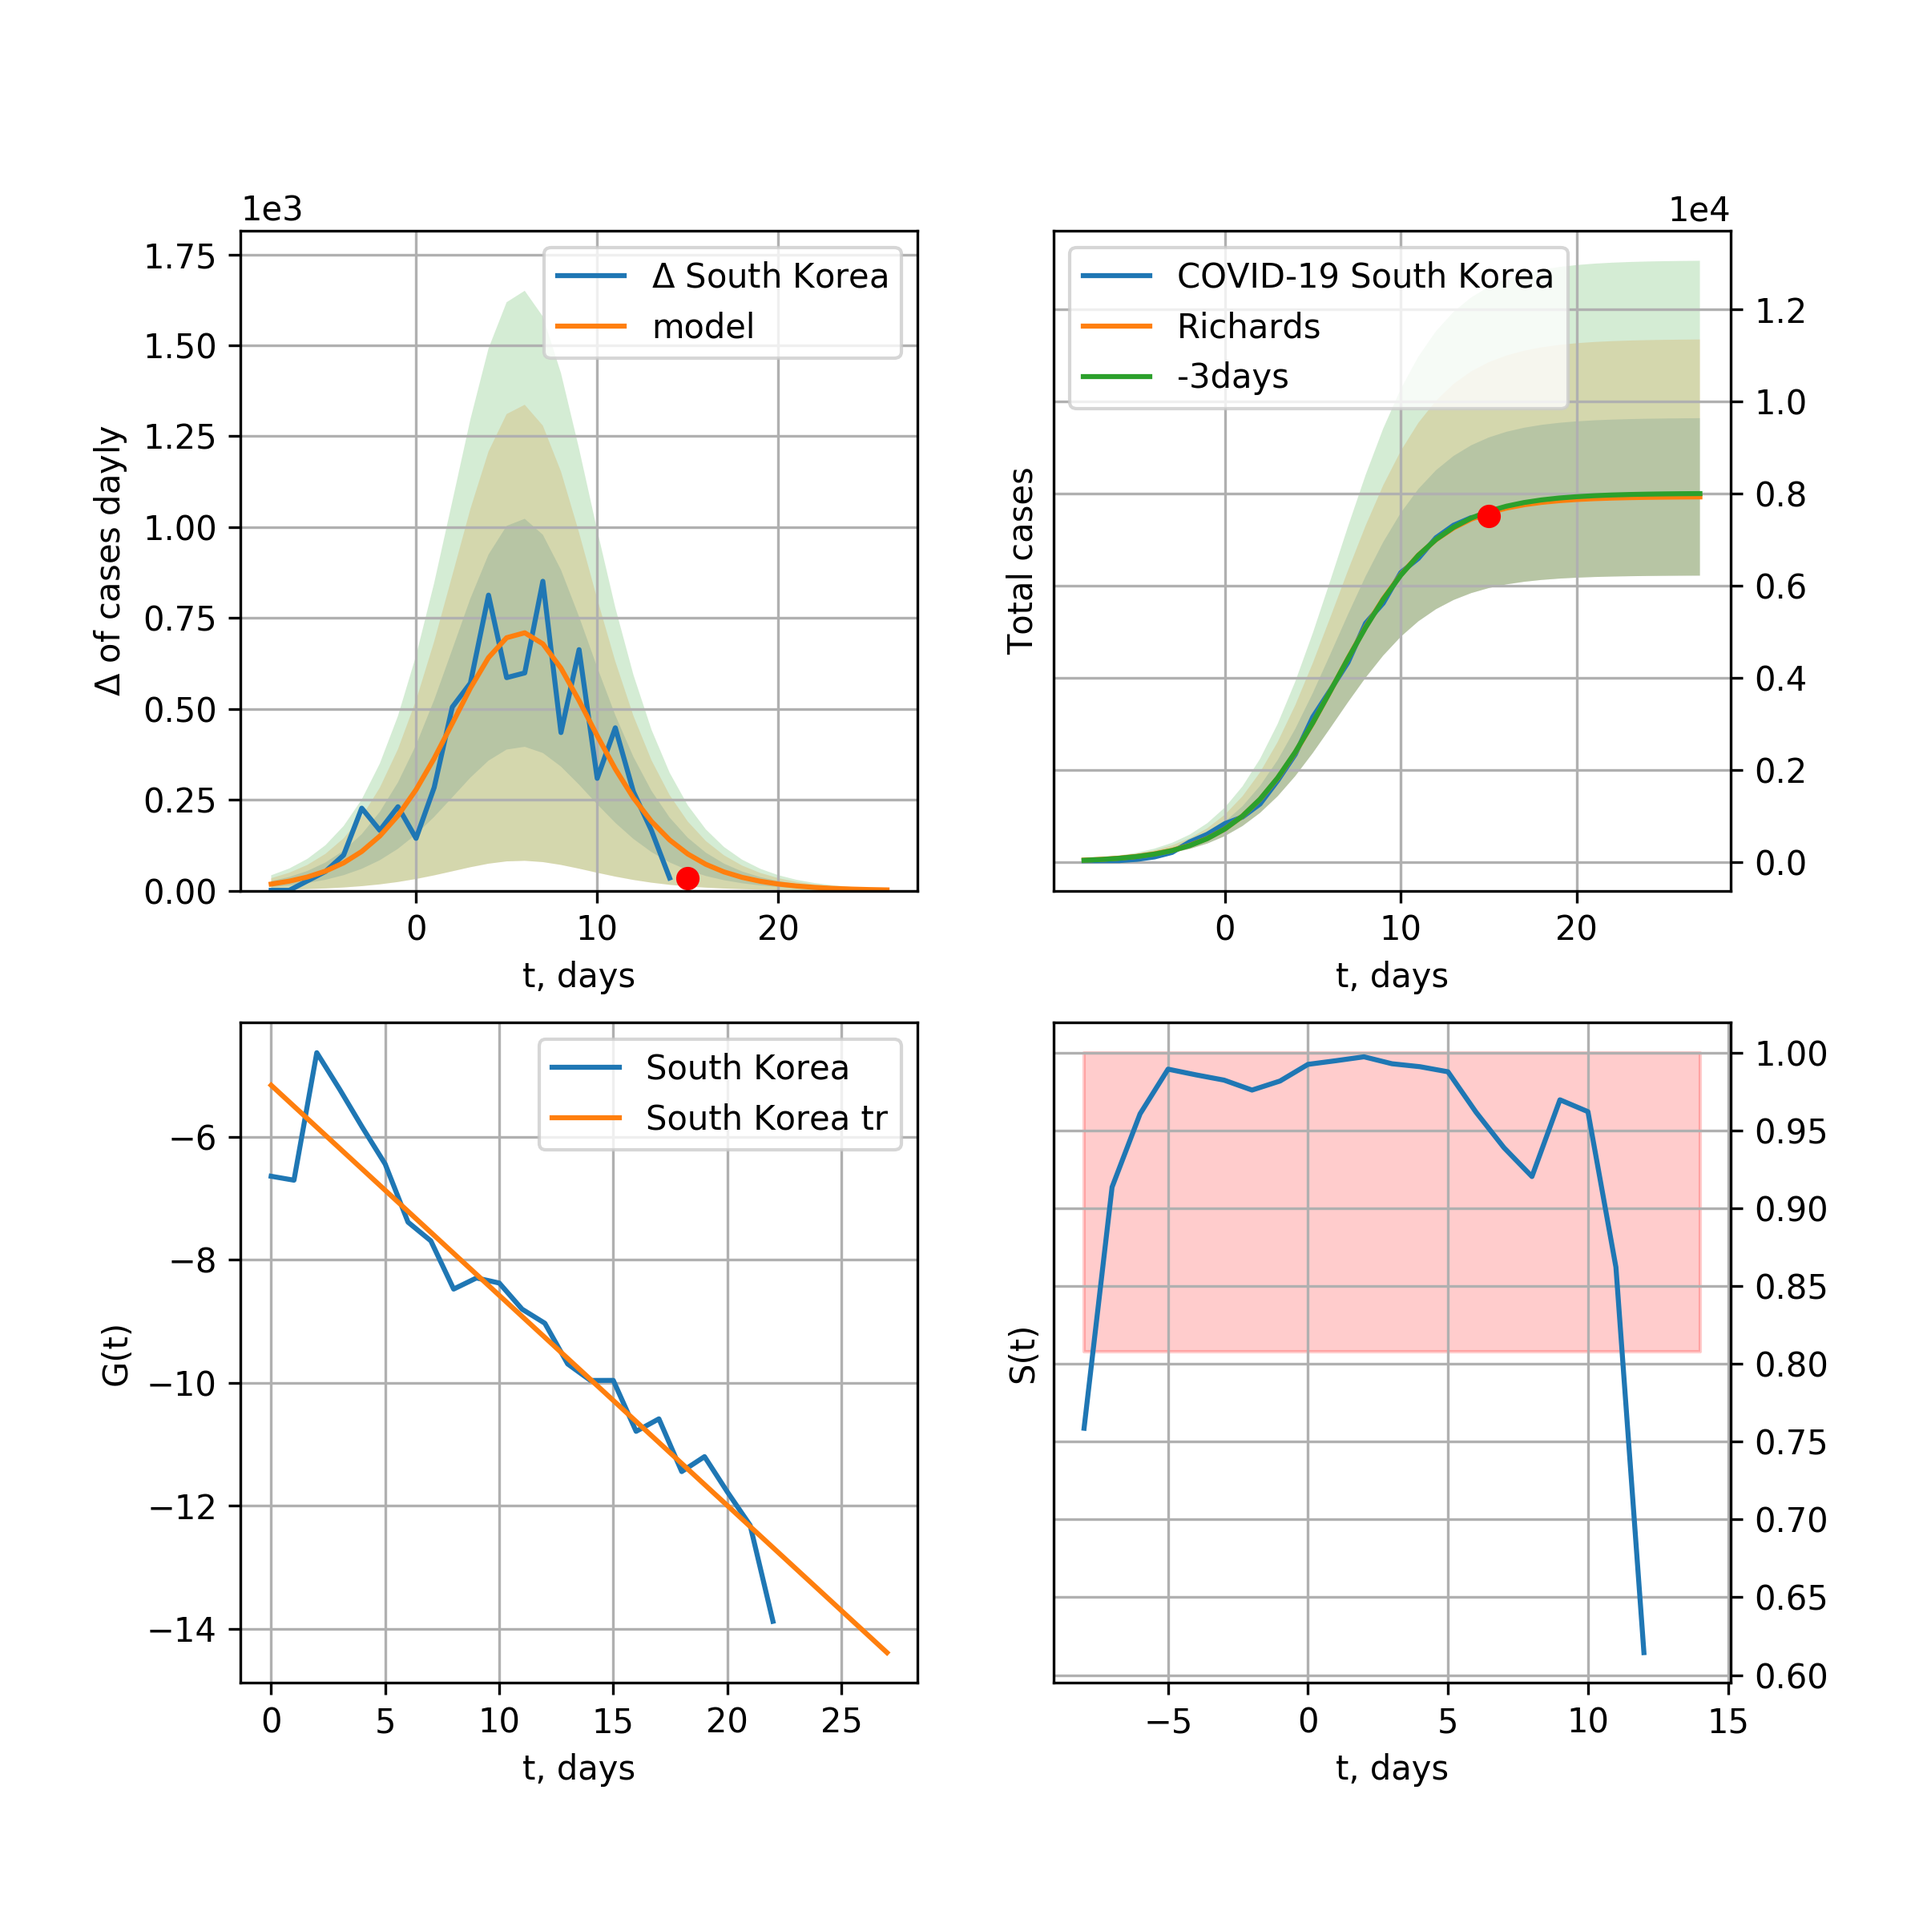
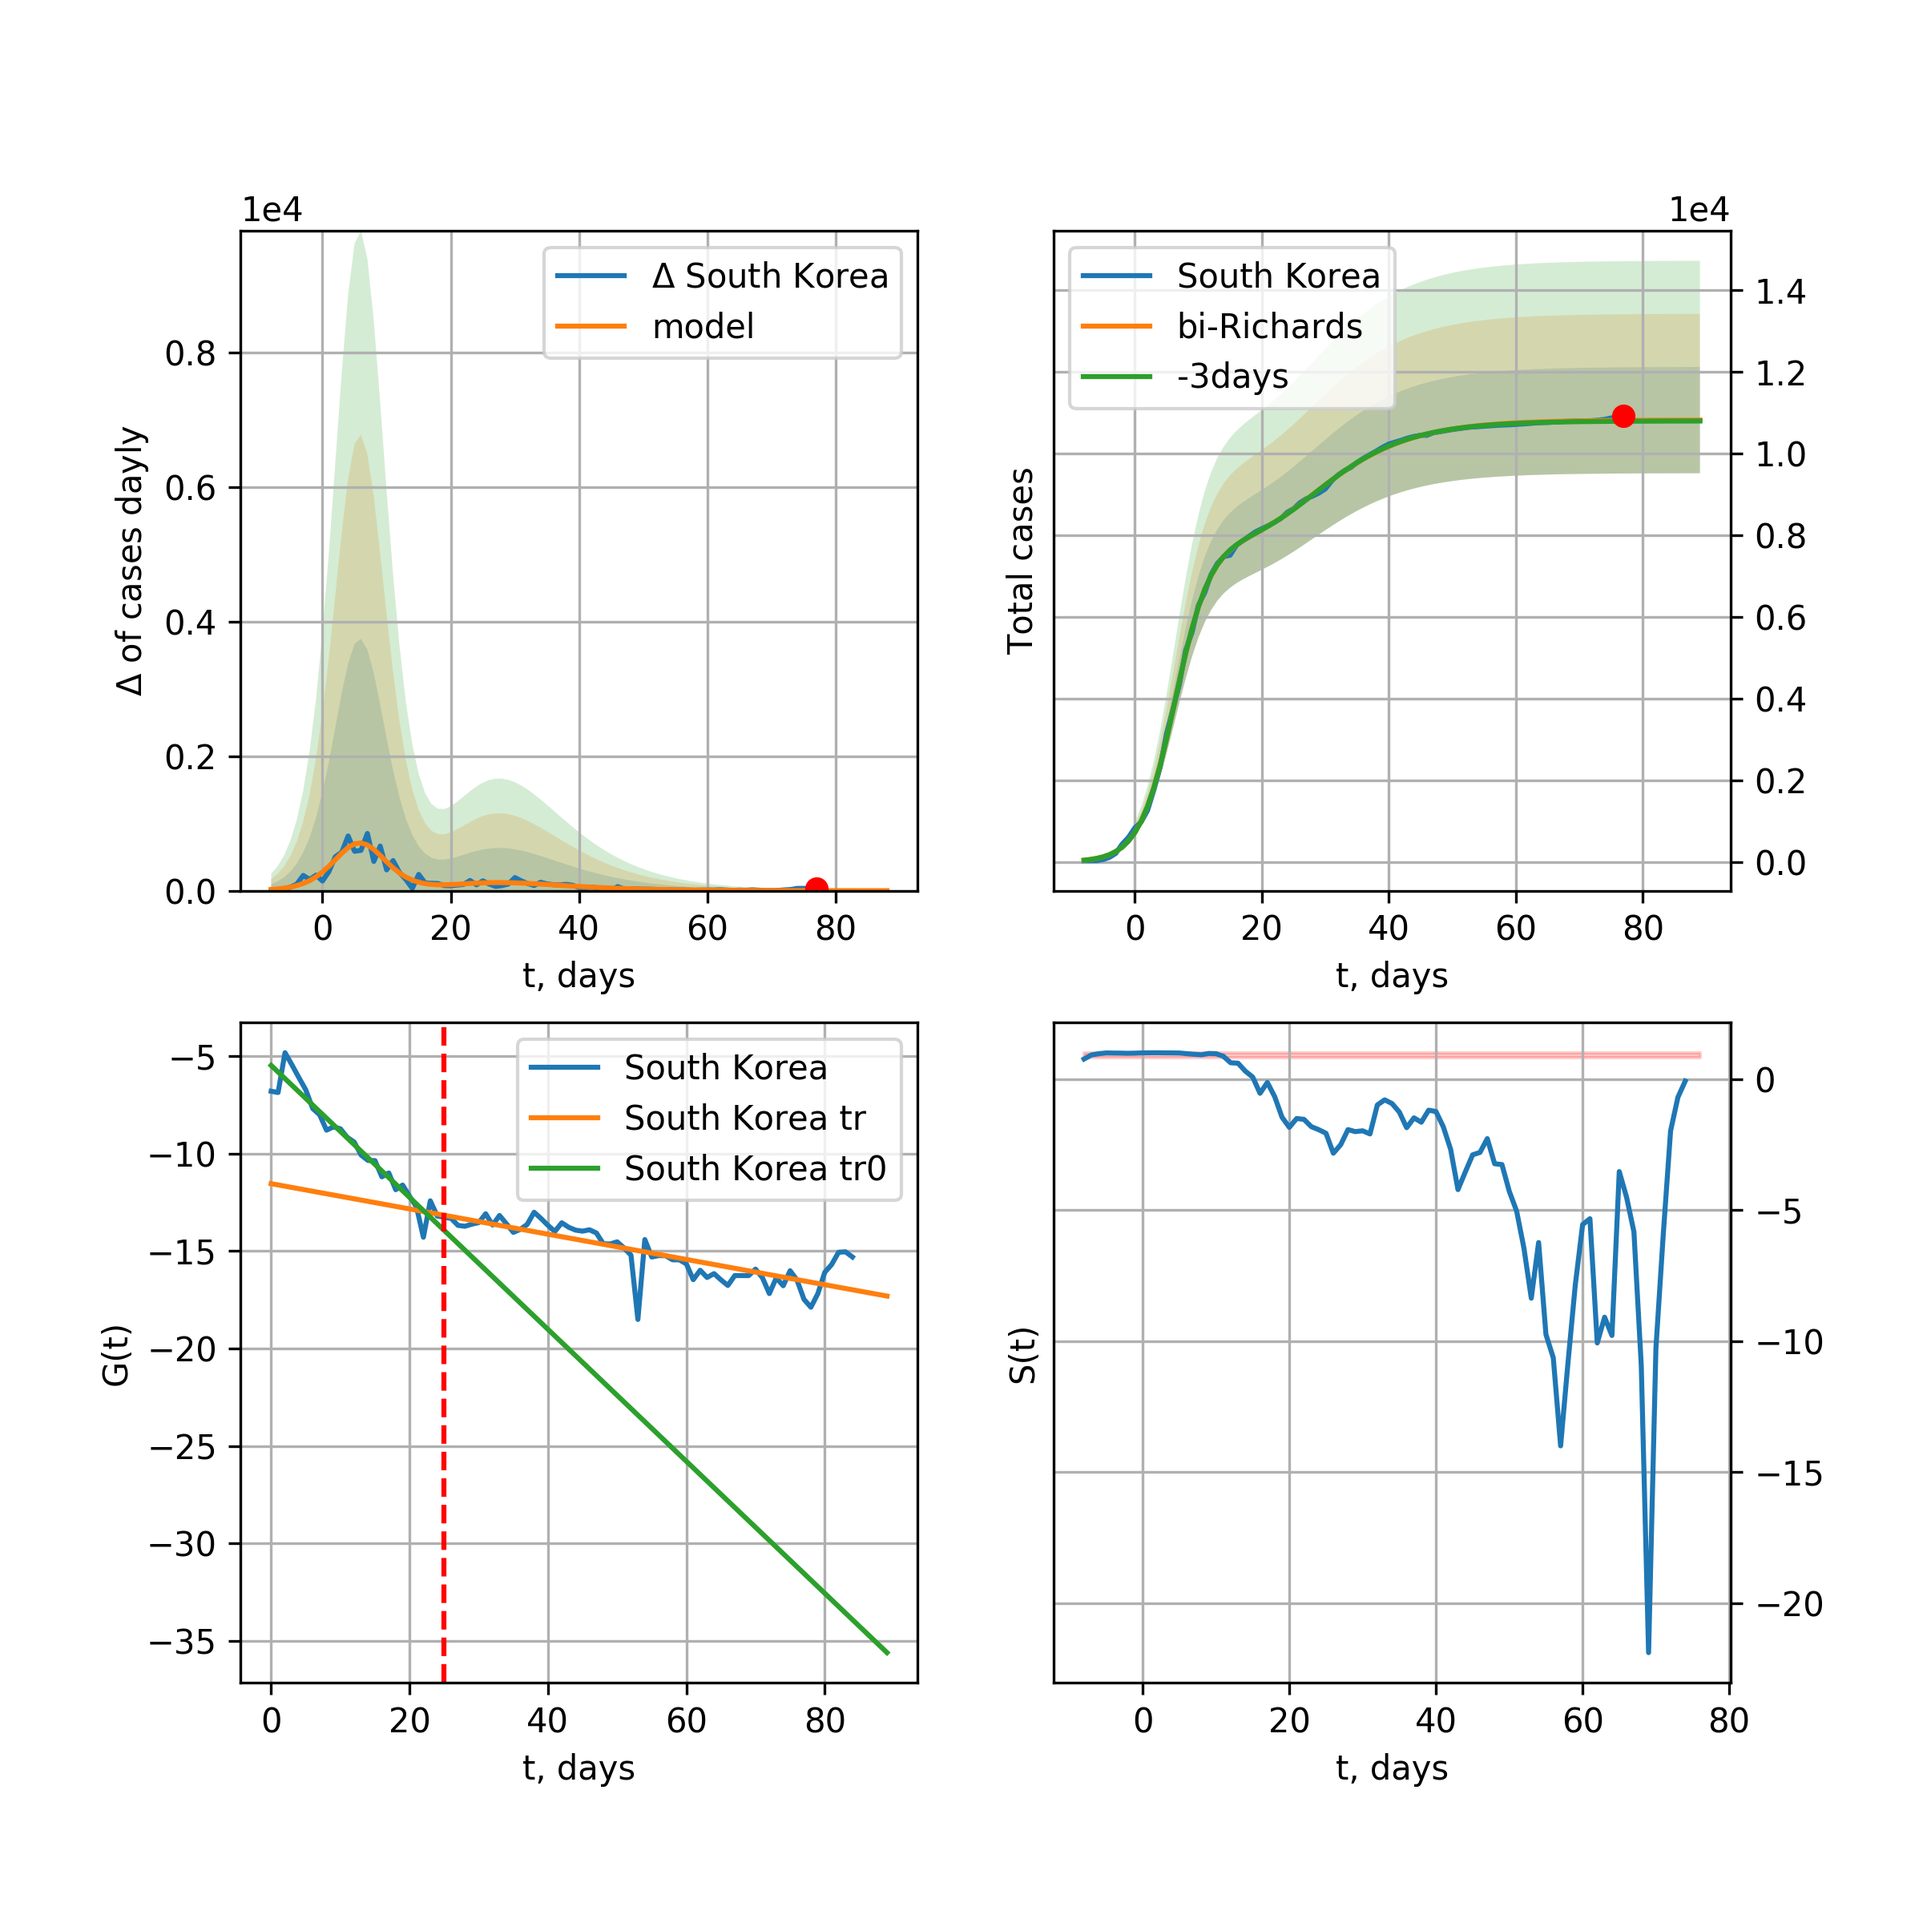
KR renew 2020-05-11

diff --git a/_site/index.html b/_site/index.html
@@ -852,11 +852,11 @@ trend coefficient of determination: 0.232653 <br />
 
     South_Korea
     <br />
-    <img src="pictures/covidcasesSouth_Korea100_Q.png" alt="hi" class="inline"/><br /> 
+    <img src="pictures/covidcasesSouth_Korea100_R.png" alt="hi" class="inline"/><br /> 
 
       South Korea data at: 2020-05-11<br />
 +3 day model MAPE: 0.001961<br />
-model: bi-logisticQ<br />
+model: bi-Richards<br />
 coeffs: [2.89231183e+03 1.49069448e+00 6.45729581e+00 7.82376547e-02]<br />
 rational stdev: 0.120222<br />
 forecast at the end of period: +12 days<br />

diff --git a/index.html b/index.html
@@ -331,9 +331,9 @@ European Union
 
     South_Korea
     <br />
-    <img src="pictures/covidcasesSouth_Korea100_Q.png" alt="hi" class="inline"/><br /> 
+    <img src="pictures/covidcasesSouth_Korea100_R.png" alt="hi" class="inline"/><br /> 
 
-      {% include_relative _includes/covidcasesSouth_Korea100_Q.txt %}
+      {% include_relative _includes/covidcasesSouth_Korea100_R.txt %}
           <br /> 
     
     
